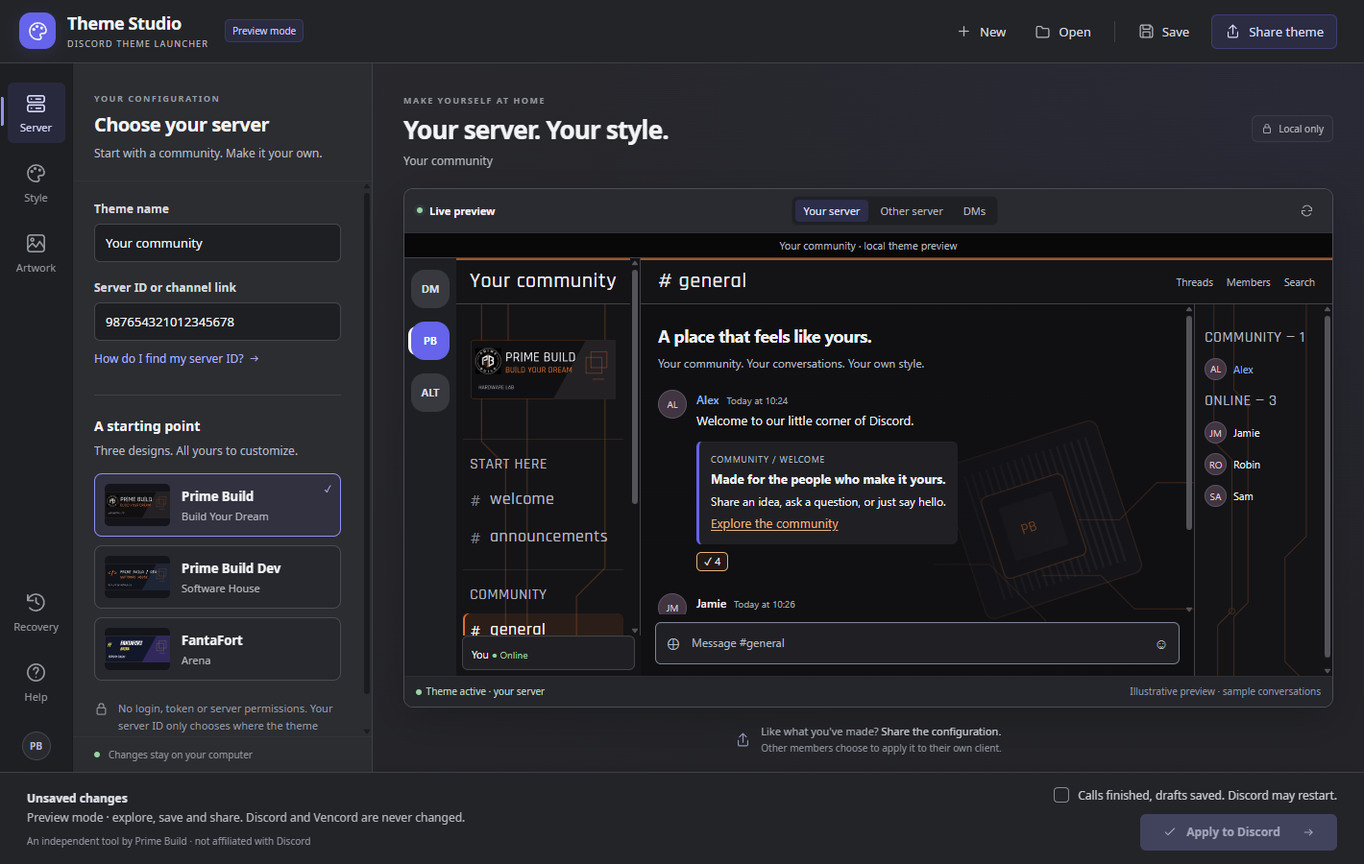
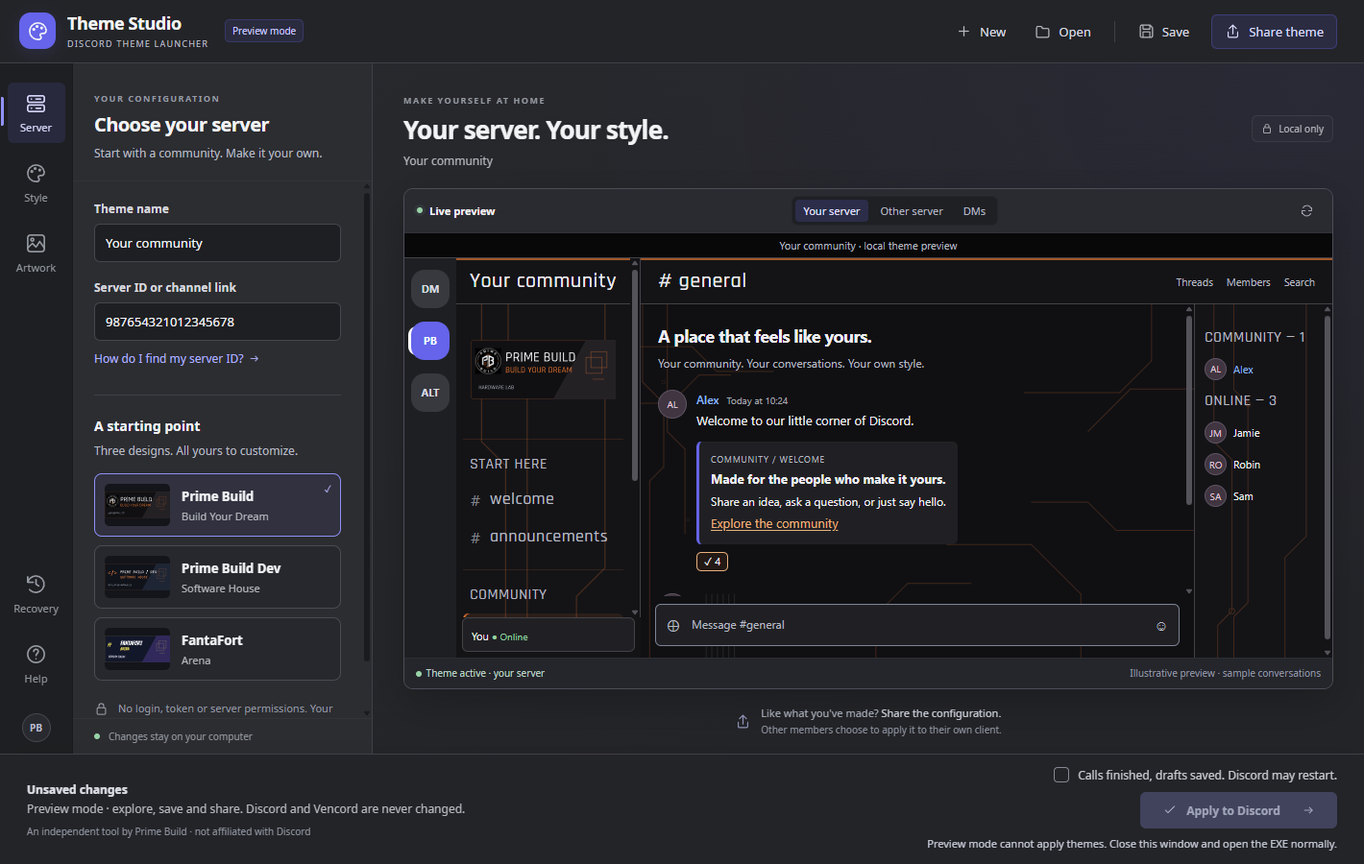
Explain disabled Apply requirements and guide users through setup

diff --git a/launcher/Windows/ui/studio.js b/launcher/Windows/ui/studio.js
@@ -31,6 +31,8 @@ async function previewLoaded(event){
  try{await doc.fonts.ready;if(id!==state?.previewId||frame.contentDocument!==doc)return;const target=doc.querySelector('.base__5e434');const themed=target&&frame.contentWindow.getComputedStyle(target).getPropertyValue('--pb-profile').trim()==='"personal"';const fontReady=state.values.font==='native'||[...doc.fonts].some(font=>font.family.includes('PrimeBuild Personal Display')&&font.status==='loaded');const ready=Boolean(themed&&fontReady);$('#preview-loading').hidden=true;$('#preview-error').hidden=ready;if(!ready)$('#error-message').textContent='The selected design or font did not finish loading. Choose another font or reload the preview.';send('previewReady',{id,ready});if(ready)updateContext('target',true)}catch{send('previewReady',{id,ready:false})}
 }
 function navigatePreview(uri){const previous=document.getElementById('preview'),frame=previous.cloneNode(false);frame.addEventListener('load',previewLoaded);frame.src=uri;previous.replaceWith(frame)}
-function update(next){state=next;document.body.dataset.busy=String(next.busy);document.querySelector('.editor-scroll').inert=next.busy;$('#mode-badge').textContent=next.previewMode?'Preview mode':next.version;$('#notice').textContent=next.notice;$('#document-status').textContent=next.dirty?'Unsaved changes':next.saved?'Configuration saved':'New configuration';$('#preview-description').textContent=next.values.name||'A little more you, in every conversation.';for(const input of document.querySelectorAll('[data-field]'))if(document.activeElement!==input)input.value=next.values[input.dataset.field]??'';for(const key of['accent','surface'])if(/^#[a-fA-F0-9]{6}$/.test(next.values[key]))$('#'+key+'-picker').value=next.values[key];document.querySelectorAll('[data-preset]').forEach(el=>{const selected=el.dataset.preset===next.values.preset;el.classList.toggle('selected',selected);el.setAttribute('aria-pressed',String(selected))});document.querySelectorAll('[data-palette]').forEach(el=>{const selected=el.dataset.palette===next.values.palette;el.classList.toggle('selected',selected);el.setAttribute('aria-pressed',String(selected))});$('#custom-colors').hidden=next.values.palette!=='custom';for(const key of['banner','background']){const label=next.assets[key]||'';if($('#'+key+'-cards').dataset.custom!==label){artworkCards(key,label);$('#'+key+'-cards').dataset.custom=label}document.querySelectorAll('[data-'+key+']').forEach(el=>{const selected=el.dataset[key]===next.values[key];el.classList.toggle('selected',selected);el.setAttribute('aria-pressed',String(selected))});$('#'+key+'-file').textContent=label?'Imported: '+label:''}$('#font-file').textContent=next.assets.font?'Imported: '+next.assets.font:'';$('#font option[value=custom]').textContent=next.assets.font?'Imported · '+next.assets.font:'Imported font';$('#restart-ready').checked=next.acknowledged;$('#restart-ready').disabled=next.busy;$('#install').checked=next.install;$('#install').disabled=!next.canInstall;$('#apply').disabled=!next.canApply;$('#disable').disabled=!next.canDisable;$('#restore').disabled=!next.canRestore;$('#installation-state').textContent=next.installation;document.querySelectorAll('[data-action=new],[data-action=open],[data-action=save],[data-action=share]').forEach(el=>el.disabled=next.busy);$('#preview-error').hidden=!next.validation;if(next.validation){$('#preview-loading').hidden=true;$('#error-message').textContent=next.validation}else if(next.previewUri&&activePreview!==next.previewUri){activePreview=next.previewUri;loading();navigatePreview(next.previewUri)}}
+function update(next){state=next;document.body.dataset.busy=String(next.busy);document.querySelector('.editor-scroll').inert=next.busy;$('#mode-badge').textContent=next.previewMode?'Preview mode':next.version;$('#notice').textContent=next.notice;$('#document-status').textContent=next.dirty?'Unsaved changes':next.saved?'Configuration saved':'New configuration';$('#preview-description').textContent=next.values.name||'A little more you, in every conversation.';for(const input of document.querySelectorAll('[data-field]'))if(document.activeElement!==input)input.value=next.values[input.dataset.field]??'';for(const key of['accent','surface'])if(/^#[a-fA-F0-9]{6}$/.test(next.values[key]))$('#'+key+'-picker').value=next.values[key];document.querySelectorAll('[data-preset]').forEach(el=>{const selected=el.dataset.preset===next.values.preset;el.classList.toggle('selected',selected);el.setAttribute('aria-pressed',String(selected))});document.querySelectorAll('[data-palette]').forEach(el=>{const selected=el.dataset.palette===next.values.palette;el.classList.toggle('selected',selected);el.setAttribute('aria-pressed',String(selected))});$('#custom-colors').hidden=next.values.palette!=='custom';for(const key of['banner','background']){const label=next.assets[key]||'';if($('#'+key+'-cards').dataset.custom!==label){artworkCards(key,label);$('#'+key+'-cards').dataset.custom=label}document.querySelectorAll('[data-'+key+']').forEach(el=>{const selected=el.dataset[key]===next.values[key];el.classList.toggle('selected',selected);el.setAttribute('aria-pressed',String(selected))});$('#'+key+'-file').textContent=label?'Imported: '+label:''}$('#font-file').textContent=next.assets.font?'Imported: '+next.assets.font:'';$('#font option[value=custom]').textContent=next.assets.font?'Imported · '+next.assets.font:'Imported font';$('#restart-ready').checked=next.acknowledged;$('#restart-ready').disabled=next.busy;$('#install').checked=next.install;$('#install').disabled=!next.canInstall;$('#apply').disabled=!next.canApply;$('#apply-reason').textContent=next.applyReason||'';$('#apply').title=next.applyReason||'Apply this configuration to your Discord client';$('#apply-help').hidden=!next.applyAction;$('#apply-help').textContent=next.applyActionLabel||'Review setup';$('#apply-help').disabled=next.busy;$('#disable').disabled=!next.canDisable;$('#restore').disabled=!next.canRestore;$('#installation-state').textContent=next.installation;document.querySelectorAll('[data-action=new],[data-action=open],[data-action=save],[data-action=share]').forEach(el=>el.disabled=next.busy);$('#preview-error').hidden=!next.validation;if(next.validation){$('#preview-loading').hidden=true;$('#error-message').textContent=next.validation}else if(next.previewUri&&activePreview!==next.previewUri){activePreview=next.previewUri;loading();navigatePreview(next.previewUri)}}
 bridge?.addEventListener('message',event=>{if(event.data?.type==='state')update(event.data)});
 send('loaded');
+
+document.getElementById('apply-help').addEventListener('click',()=>{if(state?.applyAction==='recovery')document.querySelector('[data-page=recovery]').click();else if(state?.applyAction==='restart'){document.getElementById('restart-ready').focus()}else if(state?.applyAction==='refresh'){flushEdits();send('refresh')}});

diff --git a/launcher/Windows/ui/studio.html b/launcher/Windows/ui/studio.html
@@ -28,5 +28,5 @@
 </div><div class="editor-foot"><span class="tiny-dot"></span>Changes stay on your computer</div></aside>
 <section class="stage" aria-label="Theme preview"><div class="stage-heading"><div><span class="eyebrow">MAKE YOURSELF AT HOME</span><h2>Your server. Your style.</h2><p id="preview-description">A little more you, in every conversation.</p></div><span class="local-badge"><svg><use href="#i-lock"/></svg>Local only</span></div><div class="preview-card"><div class="preview-toolbar"><span class="preview-title"><span class="live-dot"></span>Live preview</span><div class="context-tabs" role="group" aria-label="Preview context"><button data-context="target" class="active" aria-pressed="true">Your server</button><button data-context="other" aria-pressed="false">Other server</button><button data-context="dm" aria-pressed="false">DMs</button></div><button class="icon-button" data-action="refresh" title="Reload preview" aria-label="Reload preview"><svg><use href="#i-refresh"/></svg></button></div><div class="preview-frame"><iframe id="preview" title="Your themed Discord server" sandbox="allow-scripts allow-same-origin"></iframe><div id="preview-loading" class="preview-overlay"><span class="spinner"></span><strong>Preparing your space…</strong><span>Loading the selected design and display font.</span></div><div id="preview-error" class="preview-overlay error" hidden><svg><use href="#i-image"/></svg><strong>Let's fix this first</strong><span id="error-message"></span></div></div><div class="preview-caption"><span id="preview-status" role="status"><span class="tiny-dot"></span>Loading preview…</span><span>Illustrative preview · sample conversations</span></div></div><div class="sharing-note"><svg><use href="#i-share"/></svg><p>Like what you've made? <strong>Share the configuration.</strong><br><span>Other members choose to apply it to their own client.</span></p></div></section>
 </main>
-<footer class="app-footer"><div class="footer-status"><span id="document-status" class="document-status">Unsaved configuration</span><p id="notice">Design here. Preview here. Apply when you're ready.</p><span class="independent">An independent tool by Prime Build · not affiliated with Discord</span></div><div class="apply-area"><label class="check-row"><input type="checkbox" id="restart-ready">Calls finished, drafts saved. Discord may restart.</label><button id="apply" class="primary-button" data-action="apply" disabled><svg><use href="#i-check"/></svg>Apply to Discord<svg class="end-arrow"><use href="#i-arrow"/></svg></button></div></footer>
+<footer class="app-footer"><div class="footer-status"><span id="document-status" class="document-status">Unsaved configuration</span><p id="notice">Design here. Preview here. Apply when you're ready.</p><span class="independent">An independent tool by Prime Build · not affiliated with Discord</span></div><div class="apply-area"><label class="check-row"><input type="checkbox" id="restart-ready">Calls finished, drafts saved. Discord may restart.</label><div class="apply-controls"><button id="apply-help" class="outline-button" hidden></button><button id="apply" class="primary-button" data-action="apply" aria-describedby="apply-reason" disabled><svg><use href="#i-check"/></svg>Apply to Discord<svg class="end-arrow"><use href="#i-arrow"/></svg></button></div><p id="apply-reason" class="apply-reason" aria-live="polite"></p></div></footer>
 </body></html>

diff --git a/launcher/Windows/ui/studio.css b/launcher/Windows/ui/studio.css
@@ -3,3 +3,6 @@
 /* Readable desktop typography; the preview retains its own Discord text scale. */
 .field-label{font-size:12px}input:not([type=checkbox]):not([type=color]),select{font-size:13px}.hint{font-size:12px}.editor h2{font-size:14px}.preset-card strong{font-size:13px}.preset-card span{font-size:11px}.preset-card img{width:68px;object-fit:contain}.palette-card{font-size:12px}.rail-item{font-size:11px}.text-button{font-size:12px}.outline-button{font-size:12px}.art-card span{font-size:10px}.footer-status p,.document-status{font-size:12px}.check-row{font-size:12px}.independent{font-size:10px}.preview-caption{font-size:10px}.context-tabs button{font-size:11px}.soft-note{font-size:11px}.import-note{font-size:11px}
 @media(max-width:1120px){.context-tabs button{font-size:10px}.check-row{font-size:11px}}
+
+/* Keep the exact blocking requirement next to Apply, including on short windows. */
+body{grid-template-rows:66px minmax(0,1fr) auto}.app-footer{min-height:96px}.apply-area{max-width:450px;gap:8px}.apply-controls{display:flex;align-items:center;gap:9px}.apply-controls .outline-button{min-height:38px}.apply-reason{max-width:450px;margin:0;text-align:right;font-size:11px;line-height:1.45;color:#c5cbd8}.apply-reason:empty{display:none}@media(max-height:760px){body{grid-template-rows:58px minmax(0,1fr) auto}.app-footer{min-height:88px}}@media(max-width:1120px){.apply-area,.apply-reason{max-width:360px}.apply-controls .outline-button{font-size:11px}.footer-status{min-width:0}}

diff --git a/PrimeBuild.theme.css b/PrimeBuild.theme.css
@@ -2,7 +2,7 @@
  * @name Prime Build — Build Your Dream
  * @author PrimeBuild
  * @authorLink https://github.com/PrimeBuild-pc
- * @version 0.3.0-beta.2
+ * @version 0.3.0-beta.3
  * @description Hardware, precision, performance. Server-scoped desktop theme. Disable to restore.
  * @website https://primebuild.website/
  * @source https://github.com/PrimeBuild-pc/discord-theme-launcher

diff --git a/PrimeBuildDev.theme.css b/PrimeBuildDev.theme.css
@@ -2,7 +2,7 @@
  * @name Prime Build Dev — Software House
  * @author PrimeBuild
  * @authorLink https://github.com/PrimeBuild-pc
- * @version 0.3.0-beta.2
+ * @version 0.3.0-beta.3
  * @description Commit. Build. Ship. Server-scoped desktop theme. Disable to restore.
  * @website https://primebuild.website/
  * @source https://github.com/PrimeBuild-pc/discord-theme-launcher

diff --git a/FantaFort.theme.css b/FantaFort.theme.css
@@ -2,7 +2,7 @@
  * @name FantaFort — Arena
  * @author PrimeBuild
  * @authorLink https://github.com/PrimeBuild-pc
- * @version 0.3.0-beta.2
+ * @version 0.3.0-beta.3
  * @description Draft your roster. Own the arena. Server-scoped desktop theme. Disable to restore.
  * @website https://primebuild.website/
  * @source https://github.com/PrimeBuild-pc/discord-theme-launcher

diff --git a/launcher/WindowsTests/Program.cs b/launcher/WindowsTests/Program.cs
@@ -23,6 +23,25 @@ internal static class Program
             try { action(); } catch (Exception e) when (e is InvalidDataException or ArgumentException or ExternalException) { rejected = true; }
             Check(rejected, label);
         }
+        var readyToApply = new ApplyPrerequisites(false, false, false, true, "", true, true, true, false, false, true);
+        Check(ApplyReadiness.Evaluate(readyToApply).CanApply, "valid configuration, client and restart acknowledgement enable Apply");
+        foreach (var (context, expected) in new[] {
+            (readyToApply with { PreviewMode = true }, "Preview mode"),
+            (readyToApply with { Busy = true }, "operation is running"),
+            (readyToApply with { Elevated = true }, "without Administrator"),
+            (readyToApply with { ProfileHealthy = false }, "settings could not be read"),
+            (readyToApply with { Validation = "Select a valid server." }, "Select a valid server."),
+            (readyToApply with { PreviewReady = false }, "preview to finish loading"),
+            (readyToApply with { DiscordFound = false }, "Discord desktop was not found"),
+            (readyToApply with { VencordReady = false }, "Vencord is required"),
+            (readyToApply with { VencordReady = false, NeedsRepair = true }, "Vencord needs repair"),
+            (readyToApply with { Acknowledged = false }, "tick the restart checkbox") })
+        {
+            var result = ApplyReadiness.Evaluate(context);
+            Check(!result.CanApply && result.Reason.Contains(expected, StringComparison.Ordinal), "disabled Apply explains: " + expected);
+        }
+        Check(ApplyReadiness.Evaluate(readyToApply with { VencordReady = false, InstallRequested = true }).CanApply, "explicit Vencord setup consent allows first-time Apply");
+        Check(ApplyReadiness.Evaluate(readyToApply with { VencordReady = false, InstallRequested = true, Acknowledged = false }).Action == "restart", "after Vencord consent the next requirement is the restart checkbox");
         var fixture = Path.Combine(Path.GetTempPath(), "ThemeLauncher-WindowsTests-" + Guid.NewGuid().ToString("N")); Directory.CreateDirectory(fixture);
         form.Shown += async (_, _) =>
         {
@@ -76,6 +95,7 @@ internal static class Program
                     while (!studio.Ready) await Task.Delay(100, timeout.Token);
                 var studioCore = studio.Controls.OfType<WebView2>().Single().CoreWebView2;
                 Check(await studioCore.ExecuteScriptAsync("document.getElementById('apply').disabled && document.getElementById('disable').disabled && document.getElementById('restore').disabled") == "true", "preview mode disables all Discord mutations in the shipped studio");
+                Check(await studioCore.ExecuteScriptAsync("document.getElementById('apply-reason').textContent.includes('Preview mode') && document.getElementById('apply').getAttribute('aria-describedby')==='apply-reason'") == "true", "actual native studio explains disabled Apply beside the accessible button");
                 Check(await studioCore.ExecuteScriptAsync("document.querySelector('label[for=guild]').textContent.includes('Server ID') && document.querySelectorAll('[data-preset]').length===3") == "true", "studio exposes labeled server selection and three coordinated presets");
                 Check(await studioCore.ExecuteScriptAsync("[...document.querySelectorAll('.preset-card img')].every(image=>image.complete&&image.naturalWidth>0)") == "true", "actual native studio loads all bundled preset artwork");
                 await studioCore.ExecuteScriptAsync("document.querySelector('[data-preset=\"fantafort\"]').click()");

diff --git a/launcher/Windows/BuilderForm.cs b/launcher/Windows/BuilderForm.cs
@@ -81,11 +81,13 @@ internal sealed class BuilderForm : Form
         try { if (!previewMode && !DiscordClient.Elevated) { canDisable = store.PersonalEnabled; canRestore = store.CanRestore; } }
         catch { healthy = false; notice = "The Vencord profile could not be read. Check the manual recovery guide."; }
         var patched = client.Patched;
+        var readiness = ApplyReadiness.Evaluate(new ApplyPrerequisites(previewMode, busy, DiscordClient.Elevated, healthy,
+            validation, renderedRevision == revision && surface.Ready, client.Found, patched, client.NeedsRepair, install, acknowledged));
         surface.Publish(new { type = "state", values = StudioValues.From(configuration), assets = new { font = configuration.CustomFont?.Name, banner = configuration.CustomBanner?.Name, background = configuration.CustomBackground?.Name },
             busy, dirty, saved, acknowledged, install, previewMode, version = ThemeCompiler.BundledCatalog.Version,
             notice = previewMode ? "Preview mode · explore, save and share. Discord and Vencord are never changed." : DiscordClient.Elevated ? "Run normally, without Administrator privileges." : notice,
             validation, previewId = surface.PreviewId, previewUri = validation.Length == 0 ? surface.PreviewUri : "",
-            canApply = healthy && !previewMode && !busy && !DiscordClient.Elevated && acknowledged && renderedRevision == revision && surface.Ready && client.Found && (patched || install),
+            canApply = readiness.CanApply, applyReason = readiness.Reason, applyAction = readiness.Action, applyActionLabel = readiness.ActionLabel,
             canDisable = canDisable && !busy, canRestore = canRestore && !busy, canInstall = !busy && !previewMode && !patched,
             installation = patched ? "Discord + Vencord ready. No installation needed." : client.Found ? "Discord found. Enable official Vencord setup to apply themes." : "Standard Discord desktop was not found for this Windows user." });
     }

diff --git a/launcher/Windows/ApplyReadiness.cs b/launcher/Windows/ApplyReadiness.cs
@@ -1,0 +1,24 @@
+namespace CommunityThemes;
+
+internal sealed record ApplyPrerequisites(bool PreviewMode, bool Busy, bool Elevated, bool ProfileHealthy,
+    string Validation, bool PreviewReady, bool DiscordFound, bool VencordReady, bool NeedsRepair, bool InstallRequested, bool Acknowledged);
+
+internal sealed record ApplyReadiness(string Reason, string Action = "", string ActionLabel = "")
+{
+    public bool CanApply => Reason.Length == 0;
+
+    public static ApplyReadiness Evaluate(ApplyPrerequisites state)
+    {
+        if (state.PreviewMode) return new("Preview mode cannot apply themes. Close this window and open the EXE normally.");
+        if (state.Busy) return new("An operation is running. Wait for it to finish.");
+        if (state.Elevated) return new("Run the launcher normally, without Administrator privileges.");
+        if (!state.ProfileHealthy) return new("Vencord settings could not be read. Check Recovery and the manual recovery guide.", "recovery", "Review setup");
+        if (state.Validation.Length > 0) return new(state.Validation);
+        if (!state.PreviewReady) return new("Wait for the preview to finish loading, or reload it if it is stuck.", "refresh", "Reload preview");
+        if (!state.DiscordFound) return new("Standard Discord desktop was not found. Install the regular Windows desktop app, then reopen the launcher.", "recovery", "Review setup");
+        if (!state.VencordReady && !state.InstallRequested)
+            return new(state.NeedsRepair ? "Vencord needs repair. In Recovery, enable official Vencord installation / repair." : "Vencord is required. In Recovery, enable official Vencord installation, or install it manually first.", "recovery", "Set up Vencord");
+        if (!state.Acknowledged) return new("Finish calls and save drafts, then tick the restart checkbox to enable Apply.", "restart", "Restart checkbox");
+        return new("");
+    }
+}

diff --git a/README.md b/README.md
@@ -1,5 +1,5 @@
 <div align="center">
-  <a href="https://github.com/PrimeBuild-pc/discord-theme-launcher/releases/download/v0.3.0-beta.2/DiscordThemeLauncher-0.3.0-beta.2-windows-x64-portable.zip"><img src="assets/banners/readme/discord-theme-launcher-1600x480.png" alt="Your server. Your Discord. Create, preview and share a local theme, by Prime Build." width="1600"></a>
+  <a href="https://github.com/PrimeBuild-pc/discord-theme-launcher/releases/download/v0.3.0-beta.3/DiscordThemeLauncher-0.3.0-beta.3-windows-x64-portable.zip"><img src="assets/banners/readme/discord-theme-launcher-1600x480.png" alt="Your server. Your Discord. Create, preview and share a local theme, by Prime Build." width="1600"></a>
   <h1>Discord Theme Launcher</h1>
   <p><strong>Make your server feel like yours.</strong><br>Create a personal theme for a Discord server you choose, starting from three community designs.</p>
   <p>
@@ -9,7 +9,7 @@
     <a href="https://vencord.dev/download/"><img src="https://img.shields.io/badge/Vencord-required-5865F2" alt="Requires Vencord"></a>
     <a href="LICENSE"><img src="https://img.shields.io/github/license/PrimeBuild-pc/discord-theme-launcher?color=5865F2" alt="MIT license for project code"></a>
   </p>
-  <p><a href="https://github.com/PrimeBuild-pc/discord-theme-launcher/releases/download/v0.3.0-beta.2/DiscordThemeLauncher-0.3.0-beta.2-windows-x64-portable.zip"><strong>Download for Windows</strong></a> &nbsp;·&nbsp; <a href="#quick-setup">Quick setup</a> &nbsp;·&nbsp; <a href="docs/INSTALLATION.md">Installation &amp; recovery</a> &nbsp;·&nbsp; <a href="docs/VALIDATION.md">Validation</a></p>
+  <p><a href="https://github.com/PrimeBuild-pc/discord-theme-launcher/releases/download/v0.3.0-beta.3/DiscordThemeLauncher-0.3.0-beta.3-windows-x64-portable.zip"><strong>Download for Windows</strong></a> &nbsp;·&nbsp; <a href="#quick-setup">Quick setup</a> &nbsp;·&nbsp; <a href="docs/INSTALLATION.md">Installation &amp; recovery</a> &nbsp;·&nbsp; <a href="docs/VALIDATION.md">Validation</a></p>
   <p><sub>Maintained by <a href="https://github.com/PrimeBuild-pc">PrimeBuild-pc</a>. Independent project; not affiliated with Discord or Vencord.</sub></p>
 </div>
 
@@ -49,6 +49,8 @@ Imported images become static PNG without original metadata; imported background
 4. **Save** your configuration. **Share theme** creates a self-contained `.dtheme` file; sending it to members is up to you.
 5. If needed, open **Recovery** and explicitly select **Install / repair official Vencord if needed**. Finish calls and save drafts, then acknowledge the restart.
 6. Click **Apply to Discord**. The launcher backs up managed files, applies the personal slot and checks Discord startup.
+
+**Apply still disabled?** The explanation next to the button identifies the missing requirement. Wait for the preview, then finish calls/save drafts and tick the restart acknowledgement. If Vencord is missing, **Set up Vencord** opens Recovery; explicitly enable official installation/repair there. If standard Discord is not found, install the regular Windows desktop client and reopen the launcher. Preview mode cannot apply themes.
 
 One personal theme is active at a time. Applying another configuration replaces that slot. A bundled preset enabled for the same target server is disabled to avoid competition; other bundled servers and unrelated themes remain enabled. **Disable personal theme** removes the slot. **Restore previous setup** recovers preceding managed files and enabled states, retaining unrelated preference changes.
 

diff --git a/docs/INSTALLATION.md b/docs/INSTALLATION.md
@@ -6,7 +6,7 @@ The beta launcher targets Windows x64, standard per-user stable Discord in `%LOC
 
 ## Portable launcher (recommended)
 
-1. Download the portable ZIP from the [release](https://github.com/PrimeBuild-pc/discord-theme-launcher/releases/tag/v0.3.0-beta.2) and extract it.
+1. Download the portable ZIP from the [release](https://github.com/PrimeBuild-pc/discord-theme-launcher/releases/tag/v0.3.0-beta.3) and extract it.
 2. Run `DiscordThemeLauncher.exe` normally.
 3. Choose a starting preset and paste your server ID or a Discord text-channel link. Use **How do I find my server ID?** for the Developer Mode / Copy Server ID steps. Invite links are refused.
 4. Open **Style** for fonts and colors and **Artwork** for banner and background. Inspect the live preview. **Save** and **Share theme** write a `.dtheme` file containing selected assets and the custom font license. **Open configuration** reopens it. If needed, open **Recovery** and explicitly choose **Install / repair official Vencord if needed**.
@@ -22,6 +22,19 @@ Images: PNG/JPEG up to 8 MiB each, at most 4096 px per side and 16 million pixel
 The launcher does not detect membership, join a server, log into Discord, access tokens/messages, change server settings, or send messages. It does not install itself, add a service or configure auto-start. You may delete its extracted folder after closing it; backups remain separate.
 
 The executable is unsigned. Review its source and published checksums before deciding whether to run it. The application never bypasses a Windows warning or disables a security feature.
+
+## Apply is greyed out
+
+Choosing a preset alone does not enable Apply. Check the message beside the button:
+
+- **Restart checkbox:** finish calls/save drafts and tick the acknowledgement at the bottom. The helper focuses the checkbox; it never checks it for you.
+- **Set up Vencord:** open Recovery and explicitly enable official installation/repair, or install Vencord manually first. After consent, the next message may request the restart acknowledgement.
+- **Discord not found:** automatic setup requires the standard per-user Windows desktop Discord. Install that client and reopen the launcher; unsupported clients/custom locations remain outside automatic setup.
+- **Preview mode:** close the preview window and open the EXE normally, without `--preview`.
+- **Preview loading/error:** wait for the current design/font, or use Reload preview and review any configuration error.
+- **Administrator / unreadable profile:** run without elevation or follow manual recovery for the profile. The launcher does not bypass these protections.
+
+If the cause remains unclear, report the exact Apply message and the installation status shown in Recovery. No token or credentials are needed for troubleshooting.
 
 ## Apply semantics
 
@@ -71,7 +84,7 @@ No Nitro, bot, server boost or server administrator permission is needed. Each m
 Download `SHA256SUMS.txt` from the same release. On Windows:
 
 ```powershell
-Get-FileHash -Algorithm SHA256 -LiteralPath .\DiscordThemeLauncher-0.3.0-beta.2-windows-x64-portable.zip
+Get-FileHash -Algorithm SHA256 -LiteralPath .\DiscordThemeLauncher-0.3.0-beta.3-windows-x64-portable.zip
 ```
 
 Compare it with the corresponding filename in the release checksum file. The repository-root checksum file covers generated themes; the release checksum file also covers the launcher, ZIP and catalog. A hash checks integrity, not publisher identity.

diff --git a/docs/VALIDATION.md b/docs/VALIDATION.md
@@ -1,4 +1,14 @@
-# Validation - 0.3.0-beta.2
+# Validation - 0.3.0-beta.3
+
+Date: **2026-11-05**. A user reported that a friend's Apply button stayed disabled after choosing Prime Build. That machine's exact missing prerequisite has not been established. The confirmed UI defect was that prerequisites could disable Apply without an adjacent explanation.
+
+A new browser regression failed on the missing explanation, then passed after the fix. Apply now derives its enabled state and explanation from one readiness result: preview mode, active operation, elevation, unreadable profile, invalid configuration, unloaded preview, missing desktop Discord, missing/incomplete Vencord or absent restart acknowledgement. Setup/reload/focus actions guide the user without automatically consenting to installation or restart.
+
+Local checks: **57 core checks, 38 browser tests and 36 Windows checks**. Windows tests cover every blocking state, ready-state enablement, explicit first-time Vencord consent, the next restart requirement and the actual native studio's accessible explanation. Browser tests cover setup navigation, focusing the unchecked restart checkbox, clearing stale guidance when ready and the existing preview/layout/isolation cases. Release compilation and packaging pass. The user's working Discord was not restarted or modified.
+
+The previous limits remain: this is not validation on the friend's machine or a clean-VM first installation. No support was added for unsupported Discord variants/custom installations; safety conditions remain enforced. The executable is unsigned.
+
+## Inherited validation - 0.3.0-beta.2
 
 Date: **2026-11-05**. This update redesigns the configurator as Theme Studio and corrects the confusing preview workflow reported in beta 1. The selected-server guard and managed-theme transaction model remain intact. No operation was applied to the user's real Discord/Vencord profile; Discord process IDs and start times remained unchanged.
 
